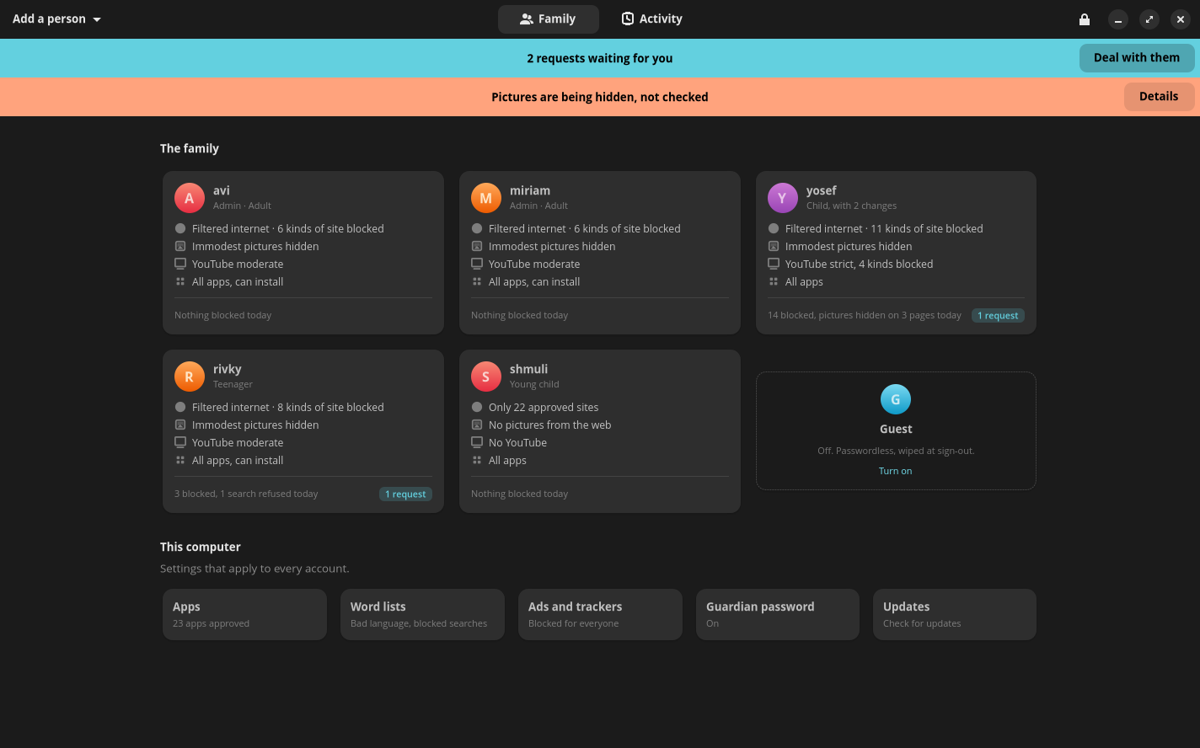
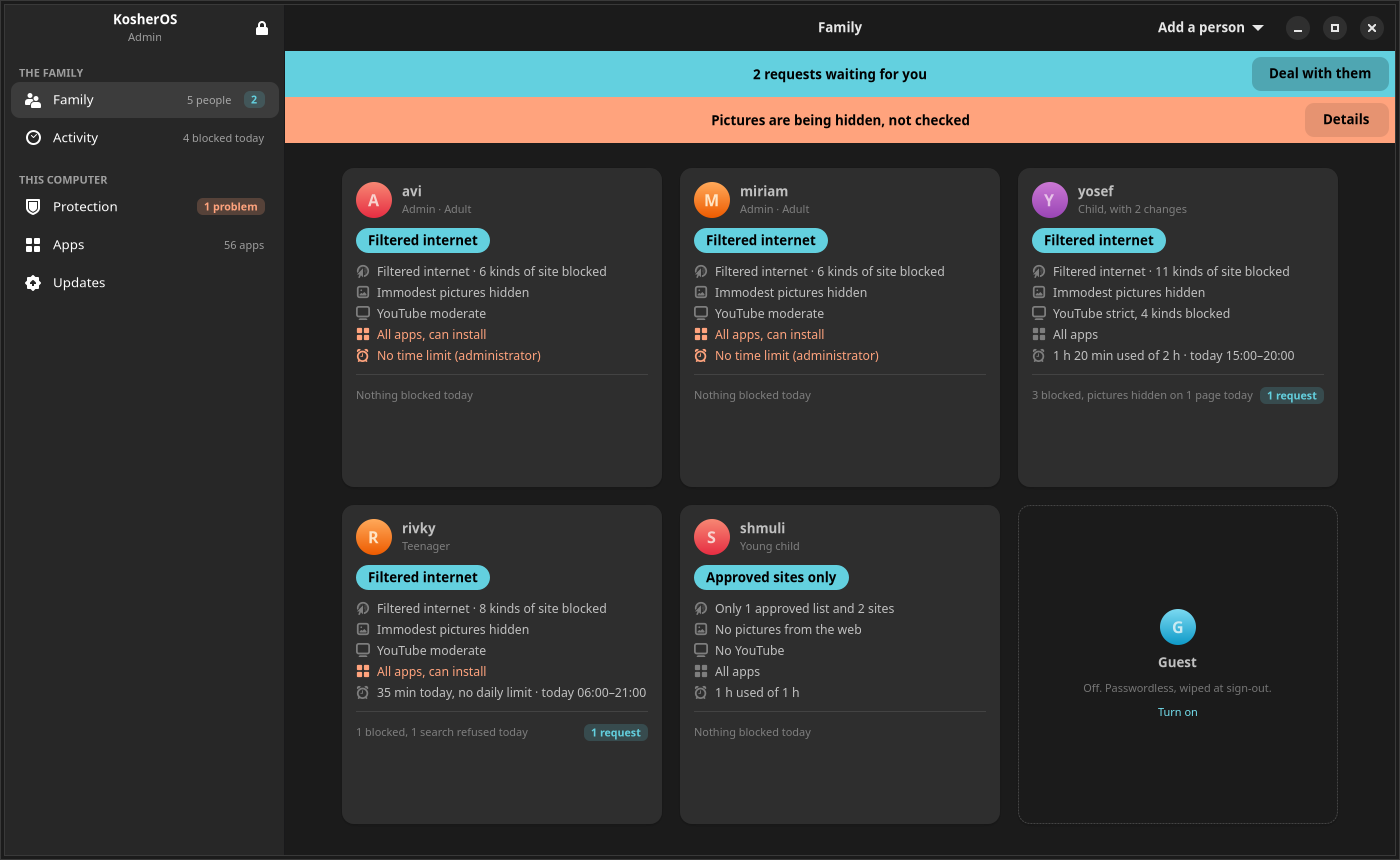
fix(admin): the board drops the heading that said Family a third time, and the docs are reshot
The sidebar row and the header bar both say Family, so the group heading
over the cards said it once more and pushed them down; the 'Filter
running' chip that hung off it is now the sidebar's Protection row, where
it shows on every page instead of only on the board. A person's media tab
is 'Pictures' rather than 'Pictures & words', which no longer fits the
switcher beside a sidebar and was truncating.

The docs screenshots were of the old two-tab layout with five tiles along
the bottom. Reshot from the demo, with the Protection page added to the
overview, and the prose that called Activity a tab and ad blocking a tile
follows.

diff --git a/admin-app/src/kosheradmin/family.py b/admin-app/src/kosheradmin/family.py
@@ -11,8 +11,6 @@ Everything that is not about a person lives there now, in computer.py.
 
 from __future__ import annotations
 
-import time
-
 import gi
 
 gi.require_version("Gtk", "4.0")
@@ -58,9 +56,11 @@ class FamilyPage(Gtk.Box):
         self.scroller.set_child(clamp)
         self.append(self.scroller)
 
-        self.family_group = Adw.PreferencesGroup(title="The family")
-        self.health_tag = tag("", "ok")
-        self.family_group.set_header_suffix(self.health_tag)
+        # No group title: the sidebar row and the header bar both already
+        # say Family, and a third one only pushed the cards down. The
+        # filter's health, which used to be a chip up here, is on the
+        # sidebar's Protection row where it shows on every page.
+        self.family_group = Adw.PreferencesGroup()
         self.cards = Gtk.FlowBox(selection_mode=Gtk.SelectionMode.NONE,
                                  min_children_per_line=1, max_children_per_line=3,
                                  column_spacing=12, row_spacing=12, homogeneous=True,
@@ -87,16 +87,10 @@ class FamilyPage(Gtk.Box):
         else:
             self.requests_banner.set_revealed(False)
 
-        rows = health_rows(win.status)
-        problems = [r for r in rows if not r[2]]
+        problems = [r for r in health_rows(win.status) if not r[2]]
         if problems:
             self.health_banner.set_title(problems[0][0])
-            self.health_banner.set_revealed(True)
-            self.health_tag.set_visible(False)
-        else:
-            self.health_banner.set_revealed(False)
-            self.health_tag.set_label(f"Filter running · checked {time.strftime('%H:%M')}")
-            self.health_tag.set_visible(True)
+        self.health_banner.set_revealed(bool(problems))
 
         clear(self.cards)
         by_uid: dict[int, int] = {}

diff --git a/admin-app/tests/test_widgets.py b/admin-app/tests/test_widgets.py
@@ -470,10 +470,15 @@ def test_a_whitelist_request_offers_only_the_whole_site():
 
 
 def test_health_speaks_when_it_is_fine_too():
+    # The board stays quiet when there is nothing wrong; the sidebar is
+    # where a healthy filter says so, on every page rather than only here.
     win, page = a_board([a_user()])
     assert not page.health_banner.get_revealed()
-    assert page.health_tag.get_visible()
-    assert page.health_tag.get_label().startswith("Filter running")
+    rail = sidebar.Sidebar(win)
+    rail.refresh()
+    drain()
+    assert rail.rows["protection"].status.get_label() == "Running"
+    assert not rail.rows["protection"].badge.get_visible()
 
 
 def test_a_problem_is_an_amber_banner_with_the_details_behind_it():

diff --git a/admin-app/src/kosheradmin/detail.py b/admin-app/src/kosheradmin/detail.py
@@ -32,7 +32,9 @@ from .schedule import ScheduleGrid, legend  # noqa: E402
 
 TABS = (("overview", "Overview", "view-list-symbolic"),
         ("filtering", "Filtering", "web-browser-symbolic"),
-        ("media", "Pictures & words", "image-x-generic-symbolic"),
+        # "Pictures & words" no longer fits the switcher beside the
+        # sidebar, and a truncated tab is worse than a shorter one.
+        ("media", "Pictures", "image-x-generic-symbolic"),
         ("youtube", "YouTube", "video-display-symbolic"),
         ("time", "Time", "alarm-symbolic"),
         ("apps", "Apps", "view-grid-symbolic"),

diff --git a/admin-app/README.md b/admin-app/README.md
@@ -7,28 +7,44 @@ again.
 
 ## What it shows
 
-The home screen is the **family board** (`family.py`): one card per
+A **sidebar** (`sidebar.py`) down the left holds everywhere the app goes,
+in two sections. *The family* is per person: the board and the activity
+feed. *This computer* is the rest: Protection, Apps, Updates. Each row
+carries its own state on the right — how many people, how many apps,
+whether the filter is running — so the sidebar answers "is anything
+wrong?" before it is clicked. Under 700sp it collapses to one pane at a
+time.
+
+The **family board** (`family.py`) is the home screen: one card per
 account with the preset it is set up as (and how far it has drifted:
 "Child, with 2 changes"), the same four lines of protection in the same
 order — web, pictures, video, apps — and what the filter did for that
 account today. The guest is a card like the others, dashed while off.
-Below the cards, the computer-wide settings are tiles: Apps, Word lists,
-Ads and trackers, Guardian password, Updates.
 
 Two banners sit above the board and appear only when they have something
 to say: waiting requests (blue — "2 requests waiting for you", one button
-opens them with their answers inline) and filter health (amber, with the
-details behind it; when all is well the board says "Filter running" with
-the time it was checked).
+opens them with their answers inline) and filter health (amber; its
+Details goes to Protection).
 
-The **Activity** tab (`feed.py`) is the filter's diary: what it blocked,
-hid or refused, and what the admins changed, newest first, with the people
-as filters down the side. A blocked page has Allow right on the row.
+**This computer** (`computer.py`) is three pages, not the row of tiles it
+used to be. *Protection* opens on whether the filter is actually working —
+the health rows are the page's first group, whatever they say, with Check
+again beside them — then what applies to everyone and says so: ad and
+tracker blocking (machine-wide because it is rendered into this computer's
+own resolvers, so it cannot be answered per account), the three editable
+word lists, and the guardian password with what it guards. *Apps* curates
+what may be installed at all; *Updates* holds the version and the way back.
 
-A card opens the person's **page** (`detail.py`): an overview (the
+The **Activity** page (`feed.py`) is the filter's diary: what it blocked,
+hid or refused, and what the admins changed, newest first. Who and when
+are chosen from the header bar, so the feed keeps the full width and the
+app has one sidebar rather than two. A blocked page has Allow on the row.
+
+A card opens the person's **page** (`detail.py`), pushed inside the
+content pane so the sidebar stays put: an overview (the
 protection as chips, drift with a Reset button, blocked today with Allow,
 changes with who made them), then Filtering (the category grid on the
-page, with preset / All / None), Pictures & words, YouTube, Apps and
+page, with preset / All / None), Pictures, YouTube, Apps and
 Account.
 
 `labels.py` holds every word for every daemon value; kosherd's tests read

diff --git a/docs/content-filtering.md b/docs/content-filtering.md
@@ -154,8 +154,9 @@ refuses is written to an activity log (`kosherd/activity.py`; the proxy
 and the search service append to their own files under
 `/var/lib/kosher-activity`, the same 0730 root:kosher-spool arrangement as
 the request spool, and kosherd is the only reader). The admin app shows it
-as an Activity tab — the filter's diary, newest first, narrowable to one
-person — and on each person's own page as "Blocked today". A blocked page
+as an Activity page in the sidebar — the filter's diary, newest first,
+narrowable to one person from the header bar — and on each person's own
+page as "Blocked today". A blocked page
 has an Allow button that does exactly what approving a request does
 (`AllowUrl`), so a parent who sees the block can fix it before the child
 comes to ask. It is a record of the filter, not of the person: what was
@@ -399,9 +400,11 @@ not given the list twice.
 
 Machine-wide, on by default. It is not content filtering, so it applies to
 unfiltered accounts too; switching it **off** is the guardian-gated act
-(`SetAdBlock`, the "Ads and trackers" tile under "This computer" in the
-admin app, `kosherctl adblock off`), because an ad network is also where immodest imagery
-arrives uninvited. What it does not do: cosmetic filtering (an empty box
+(`SetAdBlock`, the switch on the Protection page under "This computer" in
+the admin app, `kosherctl adblock off`), because an ad network is also where
+immodest imagery arrives uninvited. It sits there, under "Applies to
+everyone", rather than on a person's page, because one resolver cannot
+answer differently per account — the page says so next to the switch. What it does not do: cosmetic filtering (an empty box
 where an ad was), first-party ads served from the site's own domain, and
 ads inside YouTube's own player, which the YouTube limits handle.
 

diff --git a/docs/overview.md b/docs/overview.md
@@ -14,8 +14,8 @@ without anyone having root. Powered by Fedora.
 [Releases](releases.md){ .md-button } [What works](supported.md){ .md-button }
 [How it is built](architecture.md){ .md-button }
 
-![The admin app's home screen: one card per person, a blue banner for waiting requests,
-an amber one for filter health](images/admin-family-board.png)
+![The admin app: a sidebar with The family and This computer, one card per person, a blue
+banner for waiting requests, an amber one for filter health](images/admin-family-board.png)
 
 ## The idea
 
@@ -86,13 +86,21 @@ The admin app opens with one password and then everything works without another 
     the account has drifted from its preset with a way back, what was blocked today with an
     Allow button beside it.
 
-- ![The activity tab](images/admin-activity.png)
+- ![The activity page](images/admin-activity.png)
 
     **The filter's own diary.** What it blocked, hid or refused, newest first, with the
     people as filters. A record of the filter, not of the person: what was allowed through
     is never written down.
 
 </div>
+
+![The Protection page: is the filter working, what applies to everyone, and who may change
+it](images/admin-protection.png)
+
+**The computer has a page of its own.** *This computer* in the sidebar holds what is not
+about one person: Protection, Apps and Updates. Protection opens on whether the filter is
+actually working, and then on the things one machine can only answer once — ad and tracker
+blocking, the word lists, the guardian password.
 
 Requests come first: when somebody asks for a blocked page from the block page, a blue
 banner says so and one click answers it. Filter health is honest: if picture checking has
